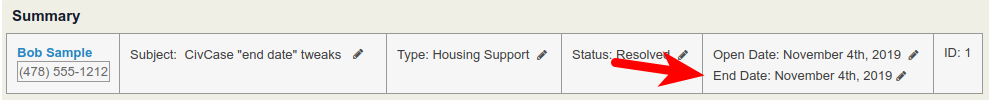
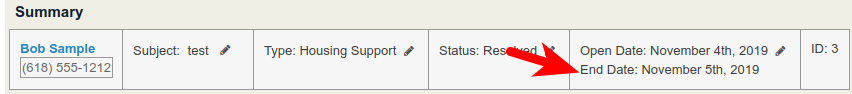
Removed "edit" link for end date.

Changed region(s): [[0.0, 0.0213, 1.0, 1.0]]

diff --git a/js/CRM_Case_Page_Tab.js b/js/CRM_Case_Page_Tab.js
@@ -3,6 +3,5 @@ CRM.$(function($) {
     <div></div>\n\
     <span class="crm-case-summary-label">End Date:</span> '
     + CRM.vars.caseenddate.endDate
-    + '<a class="crm-hover-button crm-popup" href="' + CRM.vars.caseenddate.updateUrl + '" title="Change case end date (creates activity record)"><i class="crm-i fa-pencil"></i></a>\n\
-  ');
+  );
 });

diff --git a/caseenddate.php b/caseenddate.php
@@ -12,33 +12,14 @@ function caseenddate_civicrm_pageRun(&$page) {
   $pageName = $page->getVar('_name');
   if ($pageName == 'CRM_Case_Page_Tab') {
     $caseId = $page->_id;
-    $contactId = $page->_contactId;
     $case = civicrm_api3('case', 'getsingle', array(
       'id' => $caseId,
-//      'return' => array('end_date'),
     ));
     $endDate = CRM_Utils_Array::value('end_date', $case);
     $endDate = CRM_Utils_Date::customFormat($endDate);
 
-    $activityTypeId = civicrm_api3('OptionValue', 'getvalue', [
-      'option_group_id' => "activity_type",
-      'name' => "Change Case Status",
-      'return' => 'value',
-    ]);
-
-    $urlQuery = array(
-      'action' => 'add',
-      'reset' => '1',
-      'cid' => $contactId,
-      'caseid' => $caseId,
-      'selectedChild' => 'activity',
-      'atype' => $activityTypeId,
-    );
-    $updateUrl = CRM_Utils_System::url('civicrm/case/activity', $urlQuery, TRUE, NULL, NULL, FALSE, TRUE);
-
     $vars = array(
       'endDate' => $endDate,
-      'updateUrl' => $updateUrl,
     );
     CRM_Core_Resources::singleton()->addScriptFile('caseenddate', 'js/CRM_Case_Page_Tab.js');
     CRM_Core_Resources::singleton()->addVars('caseenddate', $vars);
